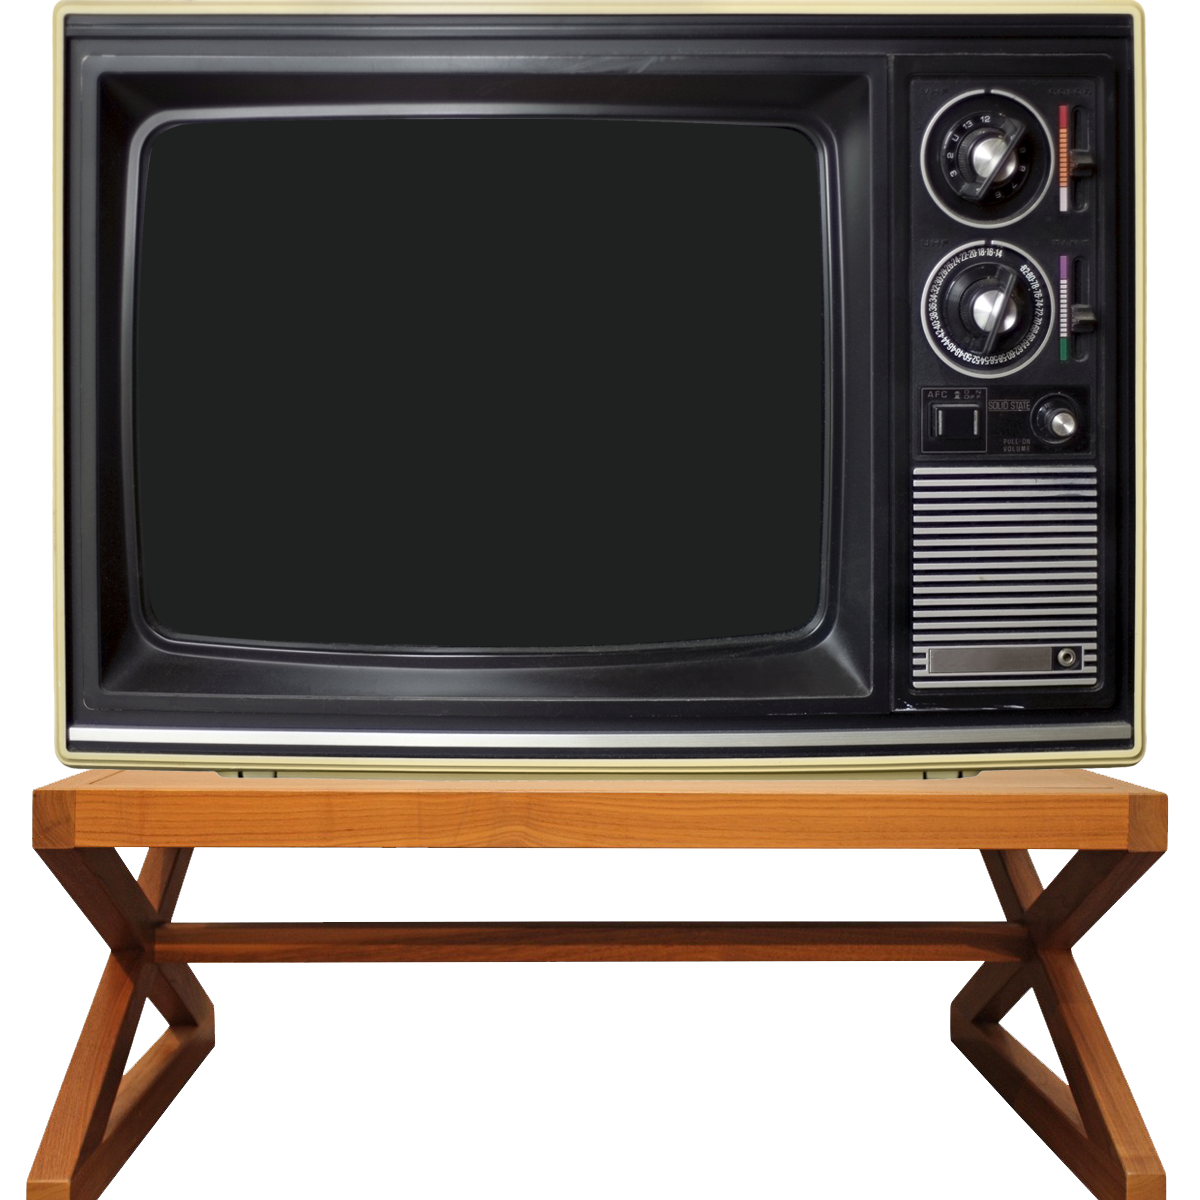
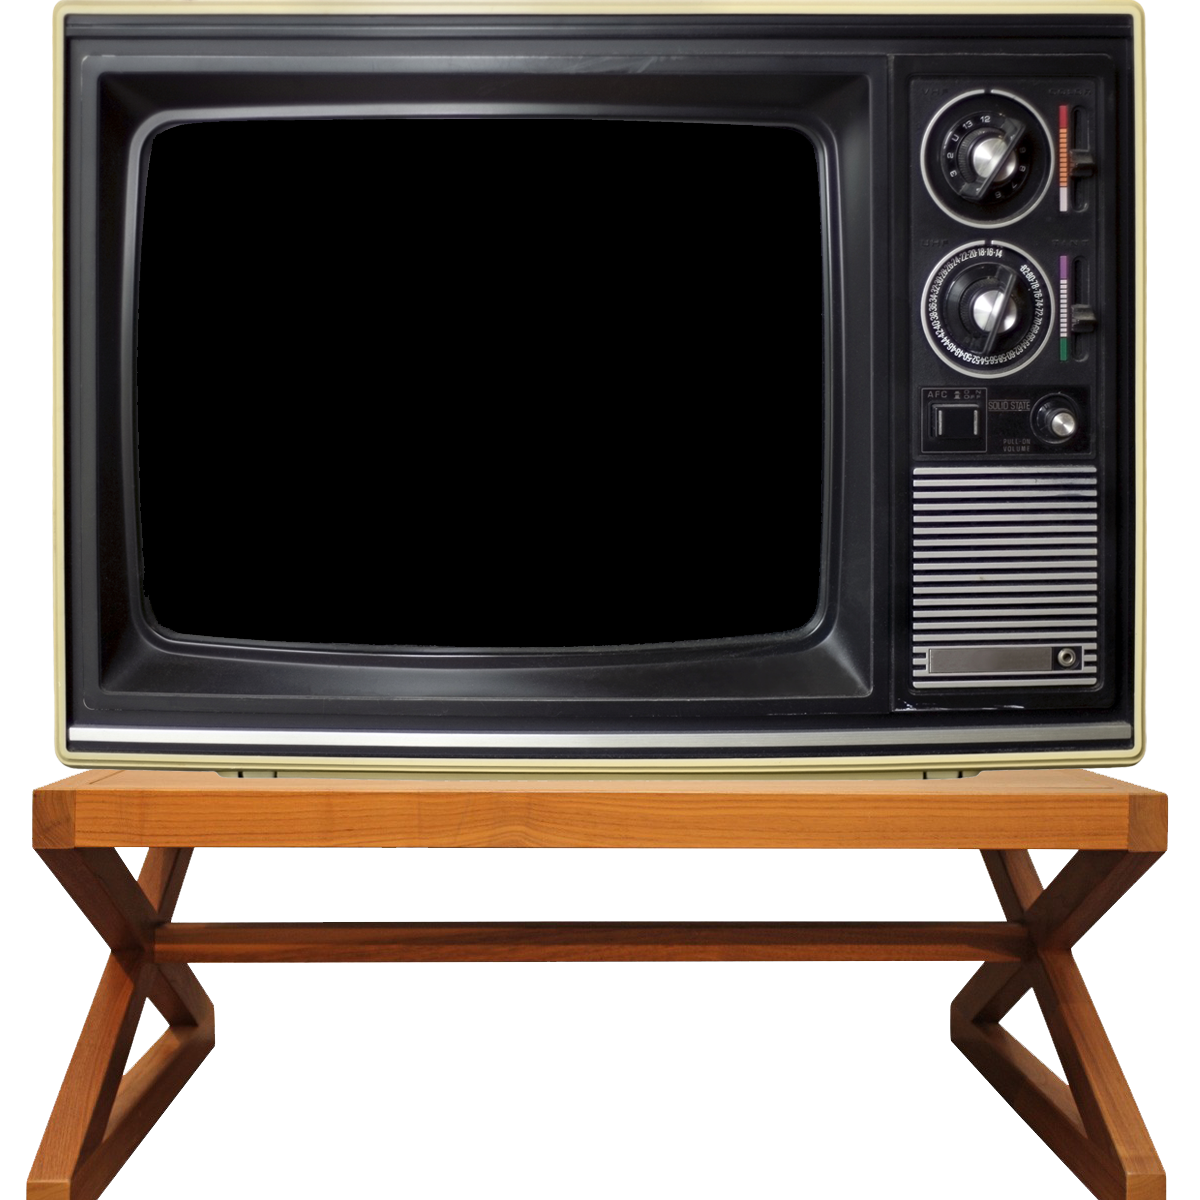
Add tv image

Changed region(s): [[0.0925, 0.0925, 0.7092, 0.555]]

diff --git a/app/assets/stylesheets/application.css b/app/assets/stylesheets/application.css
@@ -32,7 +32,7 @@
 
 body {
   background-color: black;
-  background-image: url("http://break-out.herokuapp.com/background2.jpg");
+  background-image: url("http://break-out.herokuapp.com/tv1.png");
   background-repeat:no-repeat;
   background-position: center 0px;
 }
